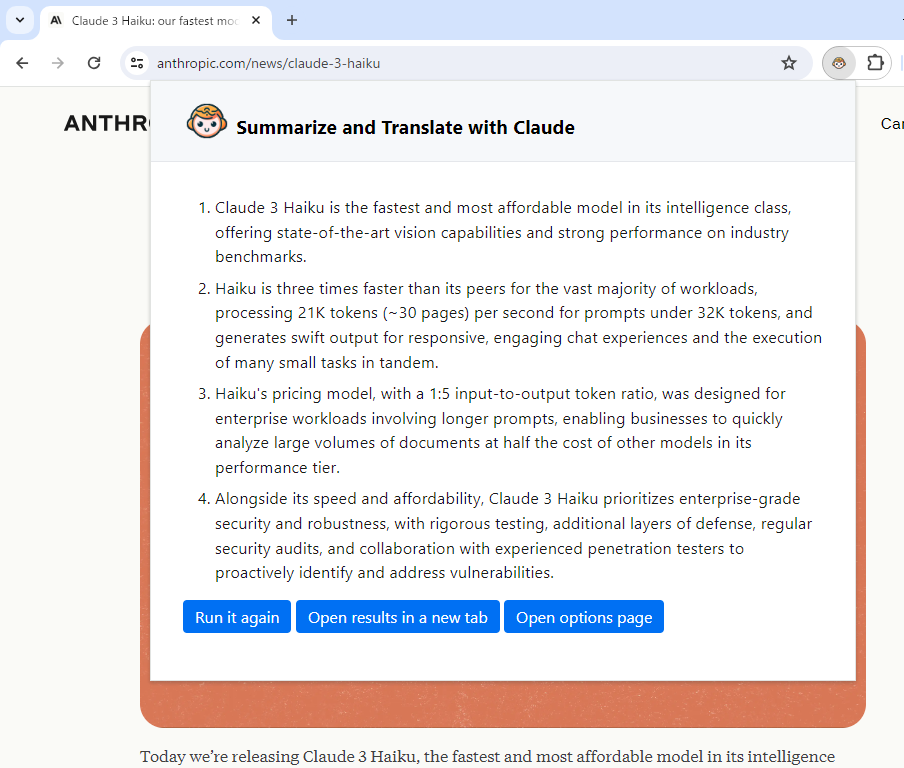
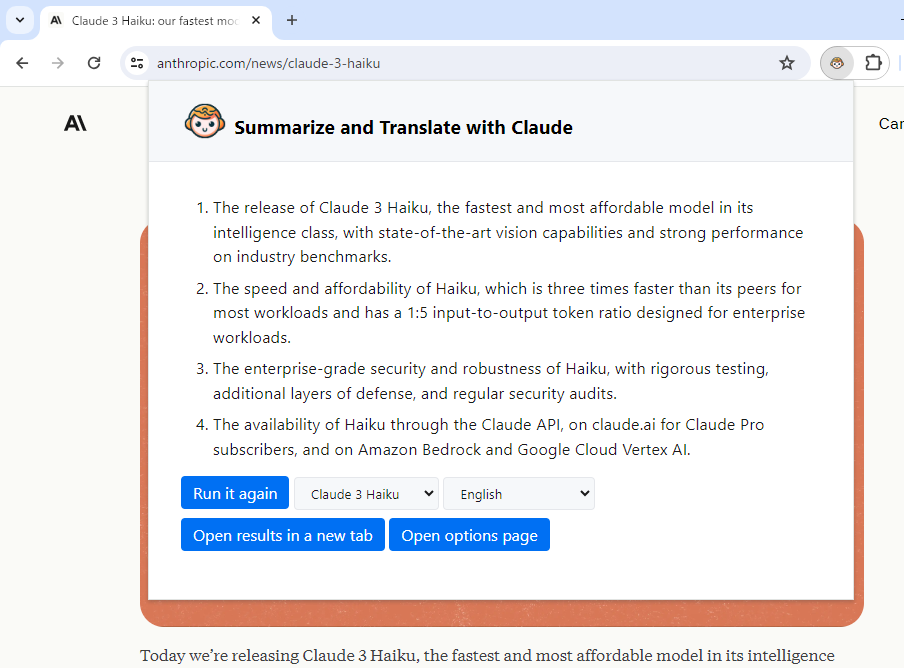
Update setup instructions and add screenshots for image and video summarization

diff --git a/README.md b/README.md
@@ -4,6 +4,8 @@ Chrome extension to summarize and translate web pages. Uses Claude as the backen
 
 ## Setup
 
+The following are instructions for manual installation, for development purposes.
+
 1. Open 'Manage Extensions' page in Google Chrome browser.
 2. Enable 'Developer mode'.
 3. Click 'Load unpacked' and select `extension` directory.
@@ -16,19 +18,21 @@ This extension uses Claude 3 Haiku by default.
 
 ### Summarize
 
-Open a web page and simply click on the extension icon.
-This will display a summary of the page in a popup window.
+Simply open a web page and click on the extension icon to summarize its content.
 
 ![Summarize](img/screenshot_summarize.png)
 
-If the YouTube video has captions, summarize the captions.
+If a YouTube video has captions, this extension will summarize the captions.
 
 ![Summarize - YouTube](img/screenshot_youtube.png)
+
+If you open an image file or a PDF file, this extension will summarize the currently displayed image.
+
+![Summarize - Image](img/screenshot_image.png)
 
 ### Translate
 
 Select the text you want to translate and click on the extension icon.
-This will display the translation result in a popup window.
 
 ![Translate](img/screenshot_translate.png)
 
